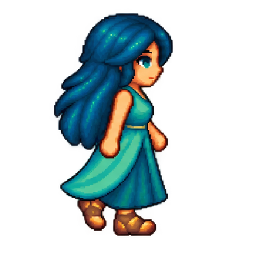
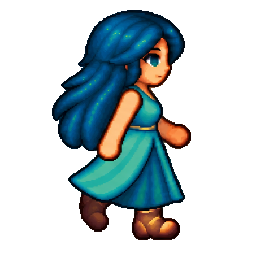
优化走路

Changed region(s): [[0.1875, 0.0312, 0.75, 0.9375]]

diff --git a/tools/process_action_sheets.py b/tools/process_action_sheets.py
@@ -30,27 +30,34 @@ def save_frame(frame: Image.Image, path: Path, size: tuple[int, int],
 
 
 def side_walk() -> None:
-    side_sheet = Image.open(SOURCE / "calypso_sidewalk_sheet_v3.png").convert("RGBA")
     left_sheet = Image.open(SOURCE / "calypso_walk_left_sheet_v4.png").convert("RGBA")
-    if side_sheet.size != (1774, 887) or left_sheet.size != (2172, 724):
+    right_sheet = Image.open(SOURCE / "calypso_walk_right_sheet_v5.png").convert("RGBA")
+    if left_sheet.size != (2172, 724) or right_sheet.size != (1774, 887):
         raise ValueError("Unexpected generated walking sheet size")
-    # Keep each figure inside its own crop. The revised left strip has more
-    # visible alternating leg positions than the first generated left row.
+
     left_x = [(60, 480), (630, 1040), (1120, 1570), (1720, 2100)]
-    right_x = [(70, 350), (510, 810), (950, 1250), (1390, 1700)]
-    cells = ([left_sheet.crop((x0, 0, x1, left_sheet.height)) for x0, x1 in left_x]
-             + [side_sheet.crop((x0, 444, x1, side_sheet.height)) for x0, x1 in right_x])
-    boxes = [cell.getchannel("A").getbbox() for cell in cells]
-    for row, direction in enumerate(("left", "right")):
-        for col in range(4):
-            cell = cells[row * 4 + col]
-            box = boxes[row * 4 + col]
-            crop = cell.crop(box)
-            # Generated poses vary slightly in size. Normalize the full body
-            # height so the head does not bob when the feet stay planted.
-            scale = 232 / crop.height
-            save_frame(crop, DEST / f"walk_{direction}" / f"{col:02d}.png",
-                       (256, 256), scale, crop.width / 2, BASELINE)
+    for index, (x0, x1) in enumerate(left_x):
+        cell = left_sheet.crop((x0, 0, x1, left_sheet.height))
+        crop = cell.crop(cell.getchannel("A").getbbox())
+        save_frame(crop, DEST / "walk_left" / f"{index:02d}.png",
+                   (256, 256), 232 / crop.height, crop.width / 2, BASELINE)
+
+    cell_width = right_sheet.width / 4
+    cell_height = right_sheet.height / 2
+    for index in range(8):
+        column, row = index % 4, index // 4
+        x0, x1 = round(column * cell_width), round((column + 1) * cell_width)
+        y0, y1 = round(row * cell_height), round((row + 1) * cell_height)
+        cell = right_sheet.crop((x0, y0, x1, y1))
+        # Remove faint generated spill before measuring bounds. A fixed source
+        # torso axis keeps the head still while the boots and dress change shape.
+        cell.putalpha(cell.getchannel("A").point(lambda alpha: 255 if alpha >= 100 else 0))
+        box = cell.getchannel("A").getbbox()
+        if box is None:
+            raise ValueError(f"Empty right-walk cell {index}")
+        crop = cell.crop(box)
+        save_frame(crop, DEST / "walk_right" / f"{index:02d}.png",
+                   (256, 256), 232 / 410, 220 - box[0], BASELINE)
 
 
 def fishing() -> None:

diff --git a/tests/test_calypso_v2_assets.py b/tests/test_calypso_v2_assets.py
@@ -10,6 +10,7 @@ class CalypsoV2AssetTests(unittest.TestCase):
         for name, spec in manifest["animations"].items():
             expected = (1 if name in ("sleep", "fish_cast", "fish_pull")
                         else 2 if name.startswith("idle") or name in ("work", "fish_wait")
+                        else 8 if name == "walk_right"
                         else 4)
             self.assertEqual(spec["count"], expected)
             self.assertEqual(len(spec["frames"]), spec["count"])
@@ -32,12 +33,14 @@ class CalypsoV2AssetTests(unittest.TestCase):
 
         for direction in ("left", "right"):
             widths = []
-            for i in range(4):
+            count = 8 if direction == "right" else 4
+            for i in range(count):
                 image = Image.open(BASE / f"walk_{direction}/{i:02d}.png").convert("RGBA")
                 shoe_x = [x for y in range(190, 245) for x in range(256)
                           if sandal(image.getpixel((x, y)))]
                 widths.append(max(shoe_x) - min(shoe_x))
-            self.assertGreater(max(widths) - min(widths), 25, direction)
+            self.assertGreater(max(widths) - min(widths),
+                               50 if direction == "right" else 25, direction)
 
     def test_fishing_float_projects_into_water(self):
         map_image = Image.open(ROOT / "assets/map/map_bare.png").convert("RGBA")

diff --git a/src/calypso/character/animator.py b/src/calypso/character/animator.py
@@ -20,9 +20,11 @@ class Animator:
         if state != self.state: self.state=state; self.frame=0; self._elapsed=0.0
     def tick(self, dt, running=False):
         self._elapsed += max(0.0,float(dt))*(self.run_factor if running else 1.0)
-        rate = self.idle_fps if self.state.startswith('idle_') else self.sleep_fps if self.state == 'sleep' else self.work_fps if self.state == 'work' else self.fishing_fps if self.state.startswith('fish_') else self.fps
+        entry = self._entry()
+        default_rate = self.idle_fps if self.state.startswith('idle_') else self.sleep_fps if self.state == 'sleep' else self.work_fps if self.state == 'work' else self.fishing_fps if self.state.startswith('fish_') else self.fps
+        rate = float(entry.get('fps', default_rate))
         step=int(self._elapsed*rate)
-        if step: self.frame=(self.frame+step)%max(1,self._entry().get('count',4)); self._elapsed-=step/rate
+        if step: self.frame=(self.frame+step)%max(1,entry.get('count',4)); self._elapsed-=step/rate
         return self.frame
     def frame_path(self):
         frames=self._entry().get('frames',[])

diff --git a/tests/test_core_animator.py b/tests/test_core_animator.py
@@ -19,3 +19,11 @@ class AnimatorTests(unittest.TestCase):
   self.assertEqual(Path(animator.overlay_path()).name,'01.png')
   animator.set_state('fish_pull')
   self.assertIsNone(animator.overlay_path())
+ def test_right_walk_uses_eight_frames_at_its_own_rate(self):
+  animator=Animator('assets/calypso_v2/manifest.json')
+  animator.select('right',True)
+  self.assertEqual(animator._entry()['count'],8)
+  animator.tick(1/16)
+  self.assertEqual(animator.frame,1)
+  animator.tick(7/16)
+  self.assertEqual(animator.frame,0)

diff --git a/README.md b/README.md
@@ -67,7 +67,7 @@ docs/screenshots/        已有调试截图
 
 `assets/map/map_bare.png` 是环境动画启用时的壁纸底图，`assets/map/map.png` 保留为原画参考，`map_cover.jpg` 是导航色罩。需要重建导航时使用 `tools/build_navigation.py`；不要把 Godot 配置中的旧坐标直接当作生产屏幕坐标。
 
-钓鱼与侧向走路精灵采用真正透明的 PNG，源图位于 `assets/source/`，运行时帧位于 `assets/calypso_v2/`。运行 `python tools/process_action_sheets.py` 可从生成的源图重建逐帧素材；`assets/calypso_v2/manifest.json` 中的 `fish_cast`、`fish_wait`、`fish_pull` 与行为阶段对应。钓鱼画面透明画布高度为 245 世界像素，以保持人物原有尺寸并让鱼线抵达水面；位置使用 manifest 中的脚底锚点。睡眠头部使用 `data/locations.json` 的 `visual_anchors.sleep` 枕头锚点，行走仍到 `bed` 交互点。
+钓鱼与侧向走路精灵采用真正透明的 PNG，源图位于 `assets/source/`，运行时帧位于 `assets/calypso_v2/`。运行 `python tools/process_action_sheets.py` 可从生成的源图重建逐帧素材；向右行走使用 `calypso_walk_right_sheet_v5.png` 的八帧、固定躯干轴和 16 fps 播放。`assets/calypso_v2/manifest.json` 中的 `fish_cast`、`fish_wait`、`fish_pull` 与行为阶段对应。钓鱼画面透明画布高度为 245 世界像素，以保持人物原有尺寸并让鱼线抵达水面；位置使用 manifest 中的脚底锚点。睡眠头部使用 `data/locations.json` 的 `visual_anchors.sleep` 枕头锚点，行走仍到 `bed` 交互点。
 钓鱼等待姿势由 `assets/source/calypso_fishing_wait_clean_00.png` 和 `01.png` 两张独立的无鱼线源图生成。鱼线是 `assets/calypso_v2/fishing/line/` 中的独立透明图层，由角色窗口按等待帧合成；抛竿和收竿帧保留各自的动作线条。
 
 ## Hermes 状态绑定
